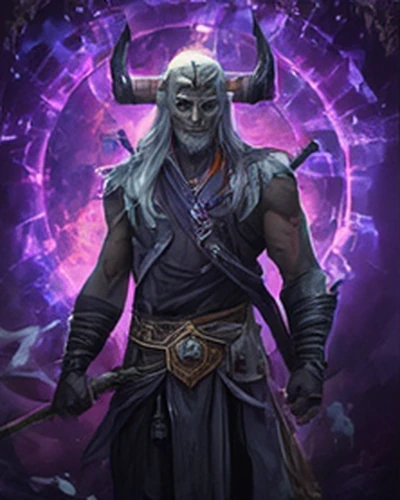
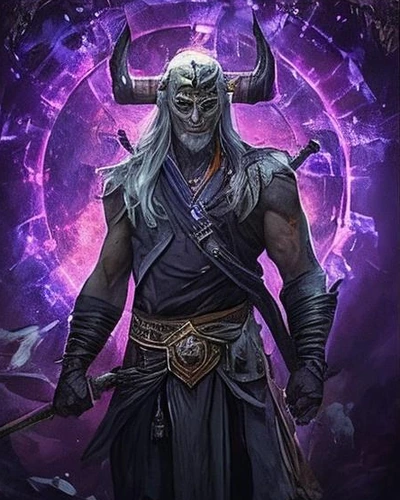
Elinda and Skolky: higher-resolution art from shamoprava1

diff --git a/src/i18n/cs/data/patchNotes.ts b/src/i18n/cs/data/patchNotes.ts
@@ -1,6 +1,11 @@
 import type { PatchNotesOverlay } from '../../overlayTypes';
 
 const notes: PatchNotesOverlay = {
+  '0.22.4': {
+    title: 'Ostřejší obrázky',
+    summary: 'Elinda a Skolky mají ostřejší obrázky karet.',
+    sections: [['Elinda a Skolky teď používají obrázky ve vyšším rozlišení.']],
+  },
   '0.22.3': {
     title: 'Skolky',
     summary: 'Nová legendární karta Dvora Jinovatky, která zmrazí celé nepřátelské bojiště.',

diff --git a/src/data/patchNotes.ts b/src/data/patchNotes.ts
@@ -19,6 +19,14 @@ export interface PatchNote {
 
 export const PATCH_NOTES: PatchNote[] = [
   {
+    version: '0.22.4',
+    date: '2026-10-04',
+    title: 'Sharper art',
+    summary: 'Elinda and Skolky get sharper card art.',
+    sections: [{ kind: 'improved', items: ['Elinda and Skolky now use higher-resolution art.'] }],
+    commits: [],
+  },
+  {
     version: '0.22.3',
     date: '2026-10-04',
     title: 'Skolky',
